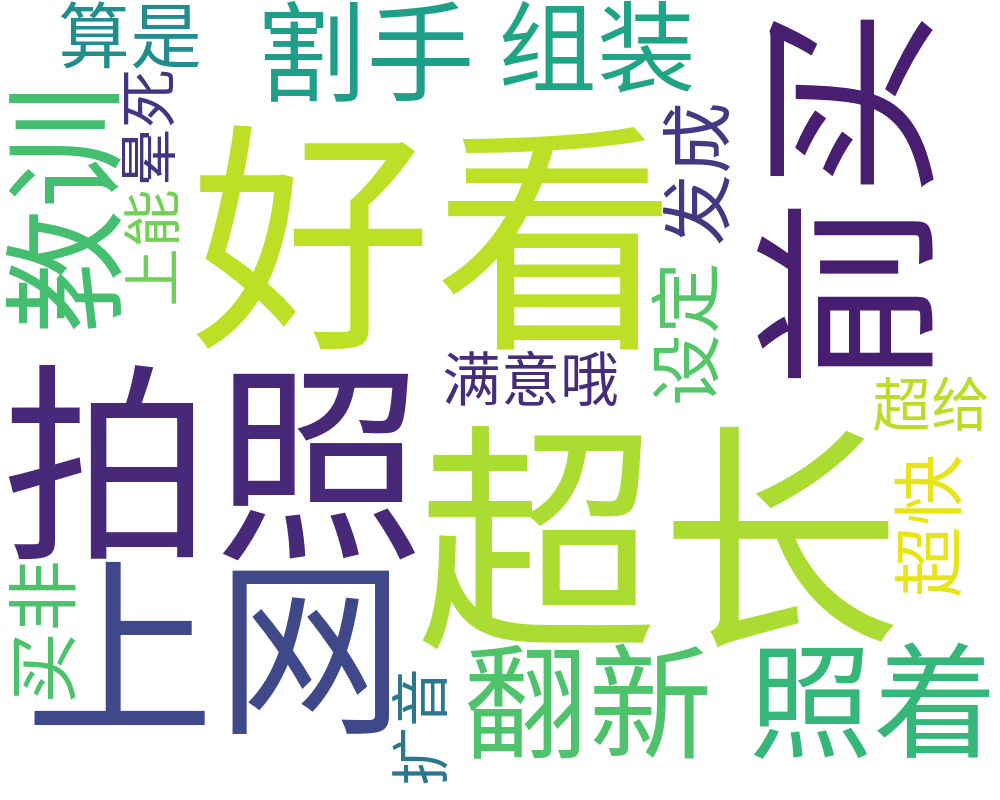
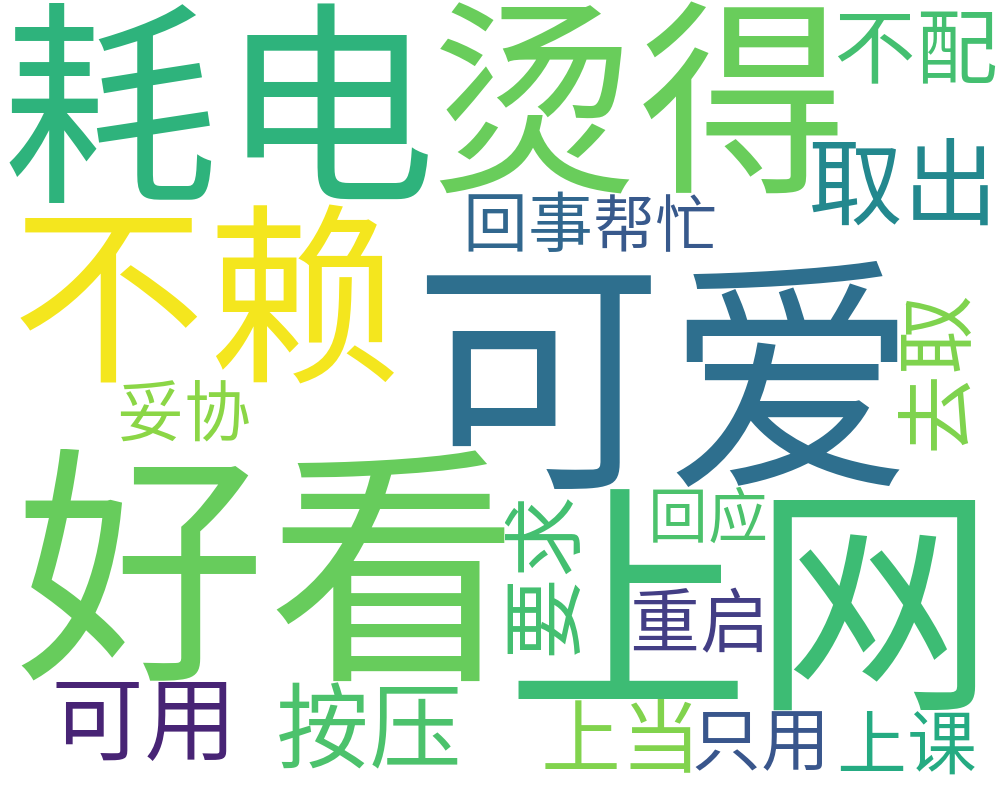
format

diff --git a/VisualData.py b/VisualData.py
@@ -1,13 +1,14 @@
 import openpyxl
 
 from wordcloud import WordCloud
-from matplotlib import pyplot as plt 
+import matplotlib
+from matplotlib import pyplot as plt
 
-import plotly 
+import plotly
 import plotly.plotly as py
 import plotly.graph_objs as go
-plotly.tools.set_credentials_file(username='Junf-Huang', api_key='UcLG1VBERu4MiPHw7wXp')
-
+plotly.tools.set_credentials_file(
+    username='Junf-Huang', api_key='UcLG1VBERu4MiPHw7wXp')
 
 wb = openpyxl.load_workbook('gzjs/phone.xlsx')
 sheet = wb["statistic"]
@@ -19,7 +20,7 @@ salesVolume = sheet.cell(row=start_row, column=2).value
 print('name:', name)
 print('salesVolume:', salesVolume)
 
-# 从第二行开始，记录统计数据  
+# 从第二行开始，记录统计数据
 # 数据过多，截取前20
 x = []
 y = []
@@ -32,81 +33,105 @@ for i in range(start_row, end_row + 1):
     x.append(sheet.cell(row=i, column=1).value)
     y.append(sheet.cell(row=i, column=2).value)
 
-print ("x: ", x)
-print ("y: ", y)
-
+print("x: ", x)
+print("y: ", y)
 
 # 读取品牌、销量的条形图、饼图
-# python wordcloud 
-data = [go.Bar(
-            x = x,
-            y = y,
-            name = salesVolume,
-            width = [0.8],
-            marker = dict(color='rgb(31, 119, 180)')
-    )]
+# python wordcloud
+data = [
+    go.Bar(
+        x=x,
+        y=y,
+        name=salesVolume,
+        width=[0.8],
+        marker=dict(color='rgb(31, 119, 180)'))
+]
 
 py.iplot(data, filename='basic-bar')
-
 
 trace = go.Pie(labels=x, values=y)
 py.iplot([trace], filename='basic_pie_chart')
 
 sheet = wb["comment"]
 #情感倾向图
-title = []
 values = []
 strings = []
 label = ['好', '坏']
+titles = ['nubia Z18', '百合 C18']
 start_row += 1
 end_row = 4
 for i in range(start_row, end_row + 1):
-    title.append(sheet.cell(row=i, column=1).value)
     values.append(float(sheet.cell(row=i, column=2).value))
     strings.append(sheet.cell(row=i, column=3).value)
 
 fig = {
-    'data': [
-        {
-            'labels': label,
-            'values': [values[0], 1-values[0]],
-            'type': 'pie',
-            'name': title[0],
-            'marker': {'colors': ['rgb(255, 127, 14)',
-                                  'rgb(31, 119, 180)']},
-            'domain': {'x': [0, .48],
-                       'y': [0, .49]},
-            'hoverinfo':'label+percent+name',
-            'textinfo':'none'
+    'data': [{
+        'labels': label,
+        'values': [values[0], 1 - values[0]],
+        'type': 'pie',
+        'name': titles[0],
+        'marker': {
+            'colors': ['rgb(255, 127, 14)', 'rgb(31, 119, 180)']
         },
-        {
-            'labels': label,
-            'values': [values[1], 1-values[1]],
-            'marker': {'colors': ['rgb(255, 127, 14)',
-                                  'rgb(31, 119, 180)']},
-            'type': 'pie',
-            'name':title[1],
-            'domain': {'x': [.52, 1],
-                       'y': [0, .49]},
-            'hoverinfo':'label+percent+name',
-            'textinfo':'none'
-        }
-    ],
-    'layout': {'title': 'Commodity Sentiment Analysis',
-               'showlegend': False}
+        'domain': {
+            'x': [0, .48],
+            'y': [.51, 1]
+        },
+        'hoverinfo': 'label+percent+name'
+    },
+             {
+                 'labels': label,
+                 'values': [values[1], 1 - values[1]],
+                 'marker': {
+                     'colors': ['rgb(255, 127, 14)', 'rgb(31, 119, 180)']
+                 },
+                 'type': 'pie',
+                 'name': titles[1],
+                 'domain': {
+                     'x': [.52, 1],
+                     'y': [.51, 1]
+                 },
+                 'hoverinfo': 'label+percent+name'
+             }],
+    'layout': {
+        'title':
+        'Commodity Sentiment Analysis',
+        "annotations": [{
+            "font": {
+                "size": 20
+            },
+            "showarrow": False,
+            "text": "nubia Z18",
+            "x": 0.20,
+            "y": 0.5
+        },
+                        {
+                            "font": {
+                                "size": 20
+                            },
+                            "showarrow": False,
+                            "text": "百合 C18",
+                            "x": 0.8,
+                            "y": 0.5
+                        }],
+    }
 }
 
 py.iplot(fig, filename='pie_chart_subplots')
 
+zhfont = matplotlib.font_manager.FontProperties(
+    fname='/usr/share/fonts/adobe-source-han-sans/SourceHanSansCN-Regular.otf')
 #典型意见词云图
-for string in strings:  
+for string, title in zip(strings, titles):
     font = '/usr/share/fonts/adobe-source-han-sans/SourceHanSansCN-Regular.otf'
-    wc = WordCloud(font_path=font, #如果是中文必须要添加这个，否则会显示成框框
-                   background_color='white',
-                   width=1000,
-                   height=800,
-                   ).generate(string)
-    wc.to_file('word.png') #保存图片
+    wc = WordCloud(
+        font_path=font,  #如果是中文必须要添加这个，否则会显示成框框
+        background_color='white',
+        width=1000,
+        height=800,
+    ).generate(string)
+    wc.to_file('word.png')  #保存图片
     plt.imshow(wc)  #用plt显示图片
-    plt.axis('off') #不显示坐标轴
-    plt.show() #显示图片
+    plt.axis('off')  #不显示坐标轴
+    plt.title(title, fontproperties=zhfont)
+    plt.show()  #显示图片

diff --git a/gzjs/gzjs/spiders/commentSpider.py b/gzjs/gzjs/spiders/commentSpider.py
@@ -27,35 +27,34 @@ class commentSpider(scrapy.Spider):  #需要继承scrapy.Spider类
     def parse(self, response):
         for link in response.css('li.item a::attr(href)').extract():
             yield response.follow(link, callback=self.parse_phone)
-    
-    def parse_phone(self, response):
 
-        pid = response.css('div.desc + div::text').extract_first().strip('商品编号：')
+    def parse_phone(self, response):
+        pid = response.css('div.desc + div::text').extract_first().strip(
+            '商品编号：')
         yield scrapy.Request(
             url="http://gzjs.bazhuayu.com/comment/" + pid,
             method="POST",
             callback=self.parse_evaluate)
-        
 
     def parse_evaluate(self, response):
 
-        pid = re.search('\d+',response.url).group()
+        pid = re.search('\d+', response.url).group()
         # json数据
-        uncodestr =  json.loads(response.body)
+        uncodestr = json.loads(response.body)
         # 查找指定的节点
-        content_list = jsonpath.jsonpath(uncodestr,"$..content")
+        content_list = jsonpath.jsonpath(uncodestr, "$..content")
 
         # 提取关键词
         contents = ''
-        
+
         # 好感度统计
         pos = 0
         for i in content_list:
             contents += i
             s = SnowNLP(i)
-            if(s.sentiments >= 0.55):
-                pos +=1
-        sentiment = str(pos/len(content_list))
+            if (s.sentiments >= 0.55):
+                pos += 1
+        sentiment = str(pos / len(content_list))
 
         keywords = ''
         # allowPOS根据东明粗更好查找突出功能，看视频学习、听歌玩游戏等
@@ -63,20 +62,20 @@ class commentSpider(scrapy.Spider):  #需要继承scrapy.Spider类
         # 乘以权重，计算综合分数，排序取优
         score = 0
         str_list = ['看视频', '学习', '听歌', '游戏']
-        
+
         jieba.analyse.set_stop_words("stop_words.txt")
-        dictword = jieba.analyse.extract_tags(contents, topK=20, allowPOS=('vn', 'v'))
+        dictword = jieba.analyse.extract_tags(
+            contents, topK=20, allowPOS=('vn', 'v'))
         for word in dictword:
             keywords += word + ','
             # 根据特征介绍手机
             if word in str_list:
                 score += 1
-        score = score/len(str_list)
-        if(score >= 0.5):
-            print("推荐度",score)
+        score = score / len(str_list)
+        if (score >= 0.5):
+            print("推荐度", score)
             print("Recommend:", pid)
 
-        
         item = CommentItem()
         item['pid'] = pid
         item['sentiment'] = sentiment
@@ -89,17 +88,8 @@ class commentSpider(scrapy.Spider):  #需要继承scrapy.Spider类
         print("keywords", item['keywords'])
         '''
         yield item
-        
         ''' 费时
         s = SnowNLP(contents)
         self.item['summary'] = s.summary()
         logging.info("summary: %s", s.summary())
         '''
-
-
-
-
-        
-
-
-        

diff --git a/gzjs/gzjs/spiders/PhoneSpider.py b/gzjs/gzjs/spiders/PhoneSpider.py
@@ -71,7 +71,6 @@ class phoneSpider(scrapy.Spider):  #需要继承scrapy.Spider类
         # 一旦item[]被赋值，则直接调用pipelines里的处理代码，所以只能赋值一次
         item['brand'] = original 
 
-        
         item['name'] = extract_with_css('div.desc::text').strip('商品名称：')
         # match只从字符串开头匹配
         item['price'] = extract_with_css('span.number::text')

diff --git a/Relevance.py b/Relevance.py
@@ -19,7 +19,6 @@ salesVolume = sheet.cell(row=start_row, column=4).value
 print('price:', price)
 print('salesVolume:', salesVolume)
 
-
 start_row += 1
 x = []
 y = []
